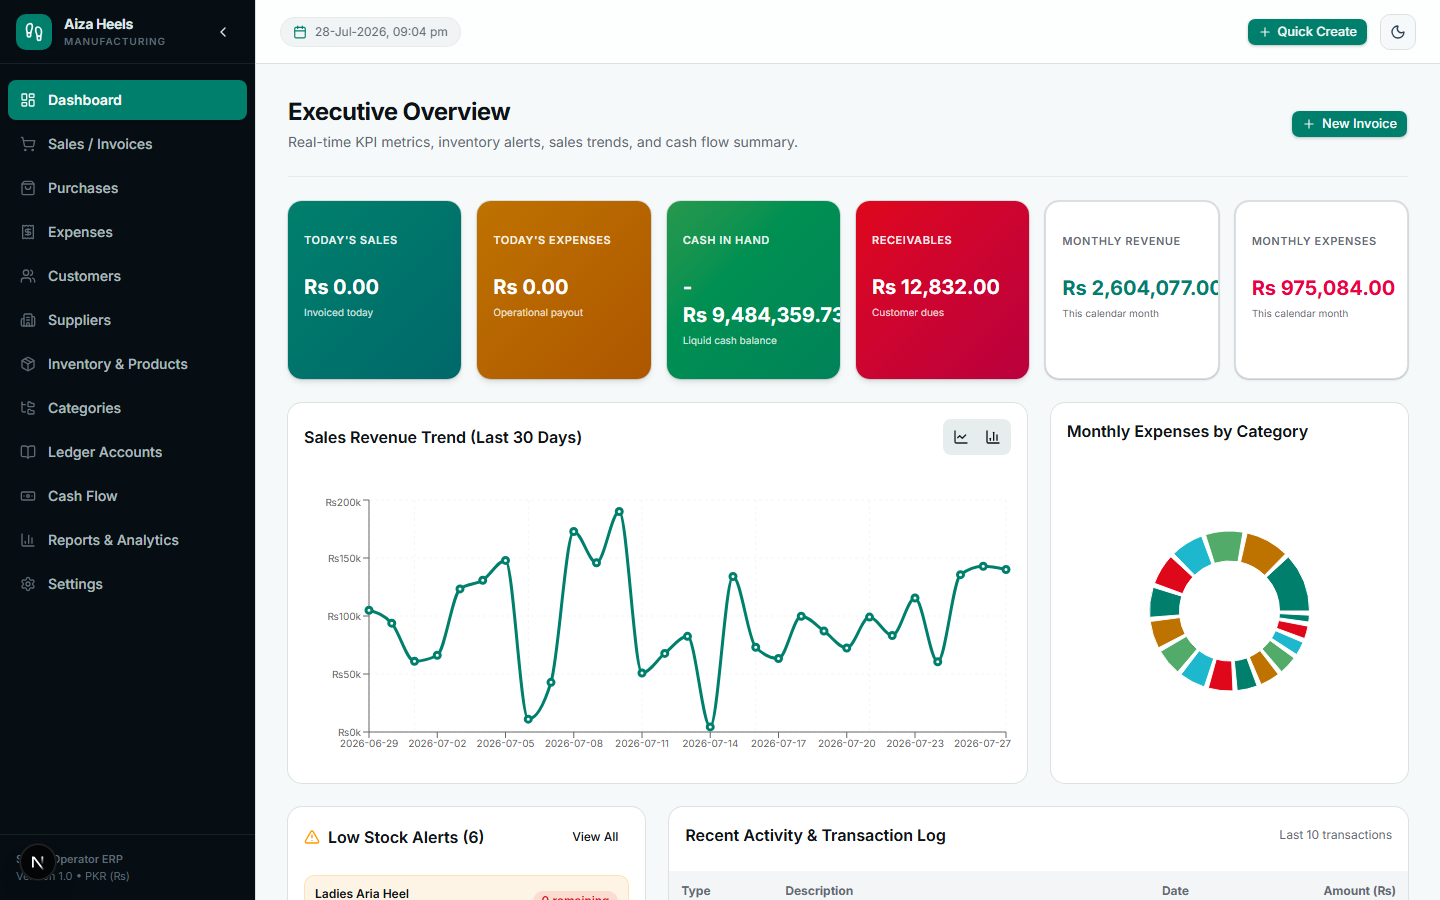
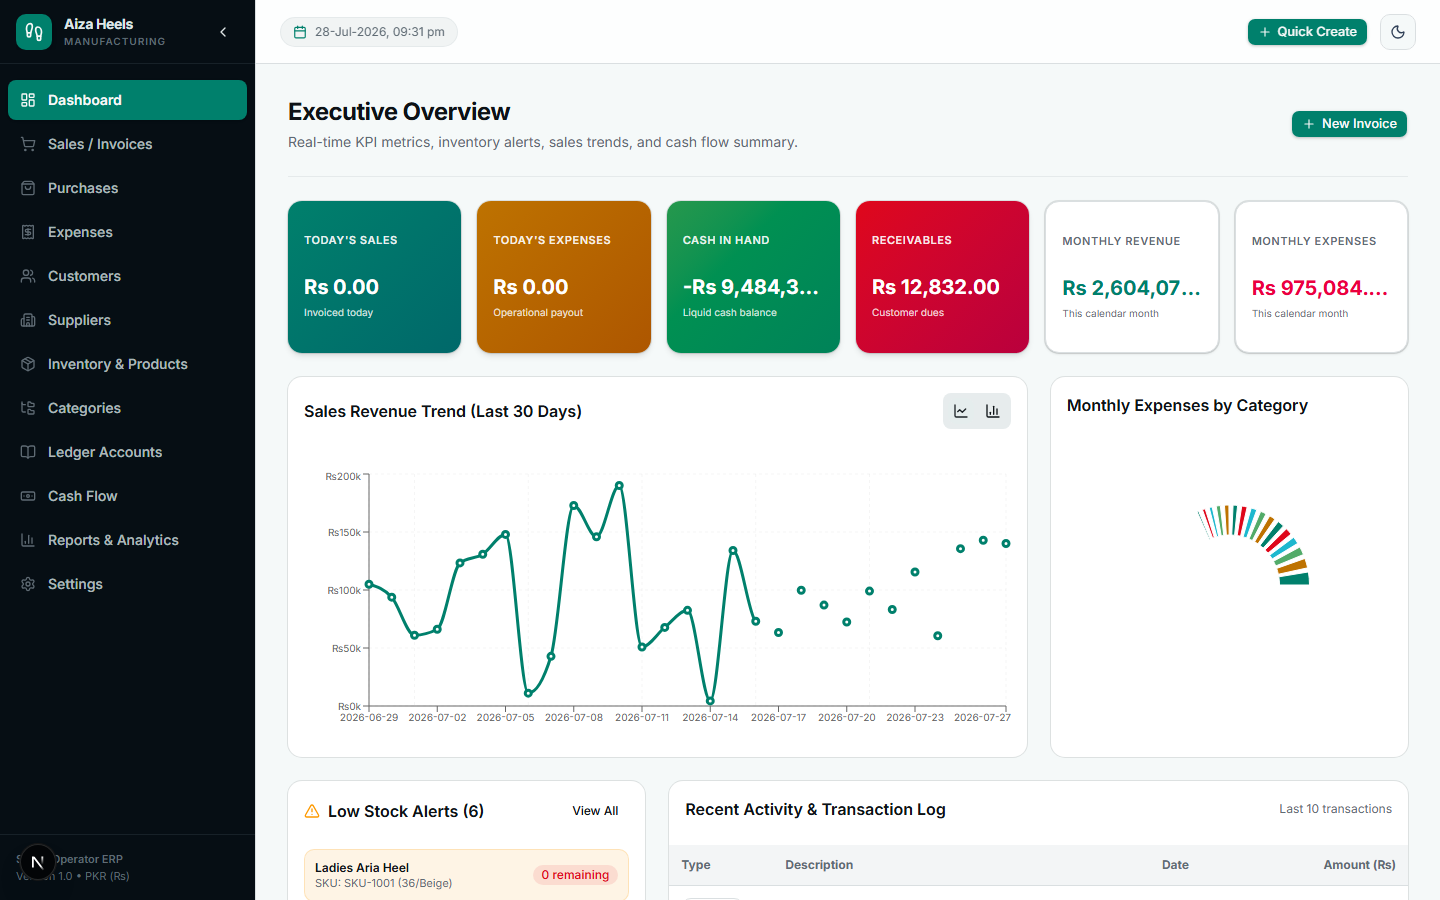
Fix dashboard KPI cards overflowing on long values
Grid items didn't have min-width: 0, so truncate couldn't shrink them —
a large negative Cash in Hand value overflowed past the card border.
Added min-w-0 + truncate + title tooltip to all 6 KPI cards.

diff --git a/app/(dashboard)/page.tsx b/app/(dashboard)/page.tsx
@@ -94,7 +94,7 @@ export default function DashboardPage() {
       {/* 6 Top KPI Cards Grid */}
       <div className="grid grid-cols-1 sm:grid-cols-2 lg:grid-cols-3 xl:grid-cols-6 gap-4">
         {/* Today's Sales */}
-        <Card className="stat-teal text-white shadow-md">
+        <Card className="stat-teal text-white shadow-md min-w-0">
           <CardHeader className="p-4 pb-1">
             <CardTitle className="text-[11px] font-semibold uppercase tracking-wider opacity-90">
               Today's Sales
@@ -104,7 +104,10 @@ export default function DashboardPage() {
             {isLoading ? (
               <Skeleton className="h-7 w-24 bg-white/20" />
             ) : (
-              <div className="text-xl font-bold font-mono">
+              <div
+                className="text-xl font-bold font-mono truncate"
+                title={formatPaisaAsPKR(stats?.todaySales ?? 0)}
+              >
                 {formatPaisaAsPKR(stats?.todaySales ?? 0)}
               </div>
             )}
@@ -113,7 +116,7 @@ export default function DashboardPage() {
         </Card>
 
         {/* Today's Expenses */}
-        <Card className="stat-amber text-white shadow-md">
+        <Card className="stat-amber text-white shadow-md min-w-0">
           <CardHeader className="p-4 pb-1">
             <CardTitle className="text-[11px] font-semibold uppercase tracking-wider opacity-90">
               Today's Expenses
@@ -123,7 +126,10 @@ export default function DashboardPage() {
             {isLoading ? (
               <Skeleton className="h-7 w-24 bg-white/20" />
             ) : (
-              <div className="text-xl font-bold font-mono">
+              <div
+                className="text-xl font-bold font-mono truncate"
+                title={formatPaisaAsPKR(stats?.todayExpenses ?? 0)}
+              >
                 {formatPaisaAsPKR(stats?.todayExpenses ?? 0)}
               </div>
             )}
@@ -132,7 +138,7 @@ export default function DashboardPage() {
         </Card>
 
         {/* Cash in Hand */}
-        <Card className="stat-green text-white shadow-md">
+        <Card className="stat-green text-white shadow-md min-w-0">
           <CardHeader className="p-4 pb-1">
             <CardTitle className="text-[11px] font-semibold uppercase tracking-wider opacity-90">
               Cash in Hand
@@ -142,7 +148,10 @@ export default function DashboardPage() {
             {isLoading ? (
               <Skeleton className="h-7 w-24 bg-white/20" />
             ) : (
-              <div className="text-xl font-bold font-mono">
+              <div
+                className="text-xl font-bold font-mono truncate"
+                title={formatPaisaAsPKR(stats?.cashInHand ?? 0)}
+              >
                 {formatPaisaAsPKR(stats?.cashInHand ?? 0)}
               </div>
             )}
@@ -151,7 +160,7 @@ export default function DashboardPage() {
         </Card>
 
         {/* Outstanding Receivables */}
-        <Card className="stat-red text-white shadow-md">
+        <Card className="stat-red text-white shadow-md min-w-0">
           <CardHeader className="p-4 pb-1">
             <CardTitle className="text-[11px] font-semibold uppercase tracking-wider opacity-90">
               Receivables
@@ -161,7 +170,10 @@ export default function DashboardPage() {
             {isLoading ? (
               <Skeleton className="h-7 w-24 bg-white/20" />
             ) : (
-              <div className="text-xl font-bold font-mono">
+              <div
+                className="text-xl font-bold font-mono truncate"
+                title={formatPaisaAsPKR(stats?.outstandingReceivables ?? 0)}
+              >
                 {formatPaisaAsPKR(stats?.outstandingReceivables ?? 0)}
               </div>
             )}
@@ -170,7 +182,7 @@ export default function DashboardPage() {
         </Card>
 
         {/* Monthly Revenue */}
-        <Card className="border bg-card shadow-sm">
+        <Card className="border bg-card shadow-sm min-w-0">
           <CardHeader className="p-4 pb-1">
             <CardTitle className="text-[11px] font-semibold text-muted-foreground uppercase tracking-wider">
               Monthly Revenue
@@ -180,7 +192,10 @@ export default function DashboardPage() {
             {isLoading ? (
               <Skeleton className="h-7 w-24" />
             ) : (
-              <div className="text-xl font-bold font-mono text-primary">
+              <div
+                className="text-xl font-bold font-mono text-primary truncate"
+                title={formatPaisaAsPKR(stats?.monthlyRevenue ?? 0)}
+              >
                 {formatPaisaAsPKR(stats?.monthlyRevenue ?? 0)}
               </div>
             )}
@@ -189,7 +204,7 @@ export default function DashboardPage() {
         </Card>
 
         {/* Monthly Expenses */}
-        <Card className="border bg-card shadow-sm">
+        <Card className="border bg-card shadow-sm min-w-0">
           <CardHeader className="p-4 pb-1">
             <CardTitle className="text-[11px] font-semibold text-muted-foreground uppercase tracking-wider">
               Monthly Expenses
@@ -199,7 +214,10 @@ export default function DashboardPage() {
             {isLoading ? (
               <Skeleton className="h-7 w-24" />
             ) : (
-              <div className="text-xl font-bold font-mono text-rose-600 dark:text-rose-400">
+              <div
+                className="text-xl font-bold font-mono text-rose-600 dark:text-rose-400 truncate"
+                title={formatPaisaAsPKR(stats?.monthlyExpenses ?? 0)}
+              >
                 {formatPaisaAsPKR(stats?.monthlyExpenses ?? 0)}
               </div>
             )}
